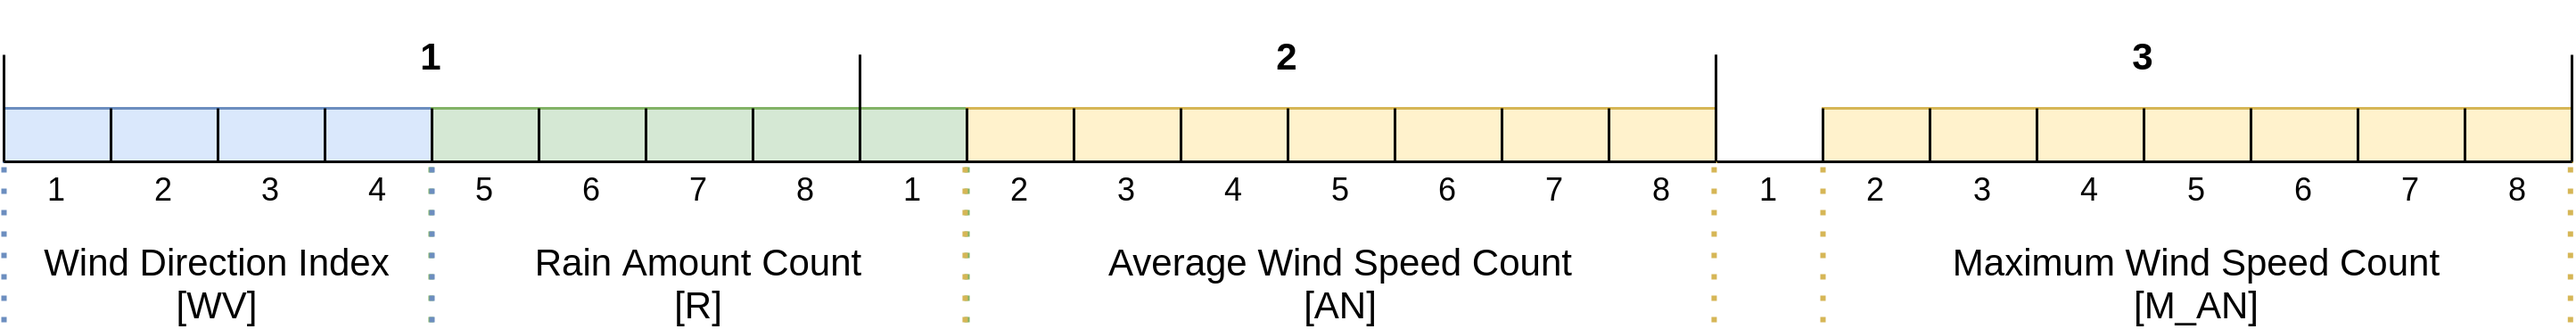
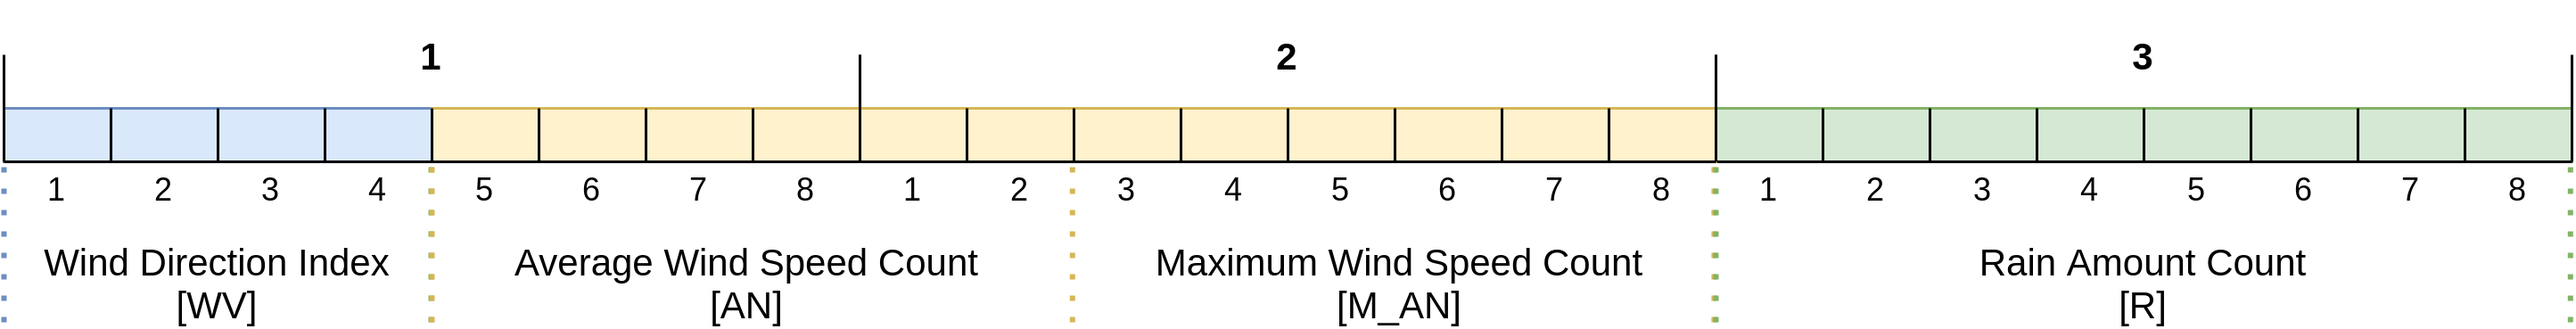
docs: update modified payload structure

diff --git a/docs/documentation.tex b/docs/documentation.tex
@@ -404,26 +404,30 @@
         Übergeben wird nur der Index des sortierten Arrays der Spannungswerte (siehe \underline{\ref{processing_records}}), daher kommen hier nur Werte von 0 bis 15 zustande.
         Diese 16 Werte lassen sich exakt auf 4 Bit verteilen.
 
-        \item \textbf{R}: 5 Bit
+        \item \textbf{AN}: 6 Bit
         
-        Mit 5 Bit stehen dem Regenmesser maximal 32 Schaltvorgänge pro Zeitraum zur Verfügung.
-        Durch mehrere Tests hat sich ergeben, dass der Regenmesser innerhalb von 10 Sekunden maximal 27 Schaltvorgänge auslöst.
-        Das entspricht etwa einer Regenmenge von 50 mm.
-        Bei einer gewählten Auflösung größer als 10 Sekunden und stärkerem Regen kann mitunter kein exakter Wert mehr übermittelt werden.
-        Die vorgesehene Größe von 5 Bit reicht dazu nicht aus.
-        Mögliche Lösungsvorschläge für größere Zeiträume werden im Abschnitt \ref{limits} beleuchtet. %TODO: umändern
+        Die durchschnittliche Windgeschwindigkeit im betrachteten Zeitraum darf maximal 63 Schaltvorgänge auslösen.
+        Das entspricht einer maximalen durchschnittlichen Windgeschwindigkeit von etwa 150 km/h.
 
-        \item \textbf{AN}: 7 Bit %TODO: 6 Bit
+        \item \textbf{M\_AN}: 6 Bit
         
-        Die durchschnittliche Windgeschwindigkeit im betrachteten Zeitraum darf maximal 128 Schaltvorgänge auslösen.
-        Das entspricht einer Windgeschwindigkeit von etwa 300 km/h.
-        Solche Geschwindigkeiten werden höchstens in Ausnahmefällen erreicht und sind zudem für die durchschnittliche Geschwindigkeit äußerst unwahrscheinlich.
+        Die maximale Windgeschwindigkeit im betrachteten Zeitraum darf maximal 63 Schaltvorgänge auslösen.
+        Das entspricht ebenfalls einer maximalen Windgeschwindigkeit von etwa 150 km/h.
 
-        \item \textbf{M\_AN}: 7 Bit %TODO: 6 Bit
+        \item \textbf{R}: 8 Bit
         
-        Die maximale Windgeschwindigkeit im betrachteten Zeitraum darf maximal 128 Schaltvorgänge auslösen.
-        Das entspricht ebenfalls einer Windgeschwindigkeit von etwa 300 km/h.
+        Mit 8 Bit stehen dem Regenmesser maximal 255 Schaltvorgänge pro Zeitraum zur Verfügung.
+        Damit kann eine Regenmenge von maximal 71,247 mm pro Zeitraum erreicht werden.
+        Je größer der gewählte Zeitraum ist, umso größer ist auch die resultierende Regenmenge in diesem Zeitraum, da es sich hier um die kumulierte Summe aller Schaltvorgänge handelt.
+        Daher wird die Wahrscheinlichkeit größer hier ein Maximum an Schaltvorgängen zu erreichen, je größer die gewählte Auflösung ausfällt.
+        
+        Für extreme Regenfälle könnte man auch den Regen um ein weiteres Byte erweitern.
+        Das ist aber für die alltäglichen Regenströme nicht relevant und bläht sonst bloß die Payload-Größe auf.
+
+        
       \end{enumerate}
+
+      Übersteigen Regenmenge oder Windgeschwindigkeiten den maximal zugewiesenen Wertebereich, werden die Werte auf das jeweilige Maximum gesetzt.
 
       Je nach dem, wie viele Datensätze in einem Paket versendet werden sollen, werden die Datensätze in einem Cache zwischengespeichert.
       Ist der Cache voll, werden die Daten als ein Paket versendet.
